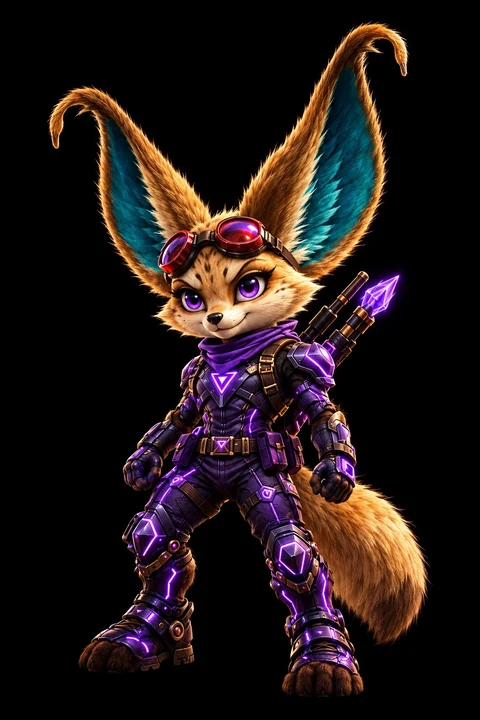
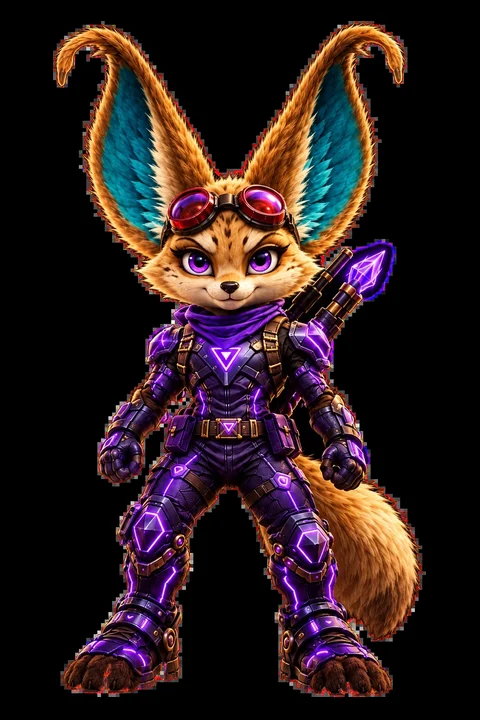
Rediseño visual AAA: nuevo orden de la galería (Bada y Dona con sus imágenes frontales), tipografía Teko y Chakra Petch, fondo con profundidad en la selección de héroes, menú de mundos con ambiente del color de cada mundo y pantalla de entrada a cada mundo con presentación de cine

diff --git a/src/style.css b/src/style.css
@@ -981,3 +981,197 @@ html.touch .hs-hint { display: none; }
   .hs-crown { font-size: 12px; top: 3px; right: 4px; }
   .hs-hint { display: none; }
 }
+
+/* ======================================================================
+   DIRECCIÓN DE ARTE AAA (selección de héroes · mundos · entrada a cada mundo)
+   Tipografía: Teko (títulos y nombres, condensada de videojuego) · Chakra Petch (etiquetas, botones,
+   datos técnicos) · Exo 2 (textos). Mismos colores de identidad del juego (--el héroe · --wc / --lc mundo).
+   ====================================================================== */
+:root { --f-display: 'Teko', 'Orbitron', sans-serif; --f-label: 'Chakra Petch', 'Exo 2', sans-serif; --f-body: 'Exo 2', 'Fredoka', sans-serif; }
+
+/* ---------- SELECCIÓN DE HÉROES ---------- */
+#select.hs { font-family: var(--f-body); }
+#select.hs::after { content: ''; position: absolute; inset: 0; pointer-events: none; z-index: 0; opacity: .5; mix-blend-mode: overlay;
+  background: repeating-linear-gradient(0deg, rgba(255,255,255,.035) 0 1px, transparent 1px 3px); }
+.hs-head { display: flex; flex-direction: column; gap: 2px; }
+.hs-kicker { font-family: var(--f-label); font-size: 11px; font-weight: 700; letter-spacing: 5px; color: color-mix(in srgb, var(--el) 70%, #fff); text-shadow: 0 0 12px color-mix(in srgb, var(--el) 60%, transparent); display: flex; align-items: center; gap: 10px; }
+.hs-kicker::before { content: ''; width: 18px; height: 2px; background: var(--el); box-shadow: 0 0 8px var(--el); }
+.sel-mission { font-family: var(--f-display); font-size: 22px; line-height: 1; font-weight: 500; letter-spacing: 1.5px; color: #ffd86a; text-transform: uppercase; margin-top: 4px; }
+.hs-count { font-family: var(--f-label); }
+
+/* tarjetas */
+.hs-plate b { font-family: var(--f-display); font-style: normal; font-weight: 600; font-size: 27px; line-height: .8; letter-spacing: 1.5px; padding-top: 4px; text-shadow: 0 2px 8px rgba(0,0,0,.8); }
+.hs-plate i { font-family: var(--f-label); font-size: 10px; font-weight: 600; letter-spacing: 1.5px; text-transform: uppercase; }
+.hs-card .hs-plate::before { content: ''; position: absolute; left: 10px; right: 10px; top: 14px; height: 1px; background: linear-gradient(90deg, var(--cel), transparent); opacity: .6; }
+.hs-card.sel .hs-plate::after { content: '◆ ELEGIDO'; position: absolute; right: 9px; bottom: 9px; font-family: var(--f-label); font-size: 9px; font-weight: 700; letter-spacing: 2px; color: #fff; text-shadow: 0 0 8px var(--cel); }
+/* esquinas de mira del elegido */
+.hs-card.sel .hs-shine { transform: none; background:
+  linear-gradient(var(--cel), var(--cel)) left 6px top 6px / 14px 2px no-repeat, linear-gradient(var(--cel), var(--cel)) left 6px top 6px / 2px 14px no-repeat,
+  linear-gradient(var(--cel), var(--cel)) right 6px top 6px / 14px 2px no-repeat, linear-gradient(var(--cel), var(--cel)) right 6px top 6px / 2px 14px no-repeat;
+  filter: drop-shadow(0 0 4px var(--cel)); }
+.hs-rec { font-family: var(--f-label); }
+
+/* ficha */
+.hs-tags span { font-family: var(--f-label); font-size: 11px; letter-spacing: 1.5px; padding: 4px 11px 3px; }
+.hs-name { position: relative; font-family: var(--f-display); font-style: normal; font-weight: 700; font-size: clamp(70px, 7vw, 116px); line-height: .78; letter-spacing: 2px; margin: 16px 0 0; padding-top: 6px; }
+.hs-name::before { content: attr(data-name); position: absolute; left: 0; top: 0; transform: translate(10px, -12px); z-index: -1; color: transparent; -webkit-text-stroke: 1px color-mix(in srgb, var(--el) 55%, transparent); opacity: .45; background: none; filter: none; }
+.hs-species { font-family: var(--f-label); font-weight: 600; font-size: 13px; letter-spacing: 6px; color: color-mix(in srgb, var(--el) 45%, #c5d3e6); display: flex; align-items: center; gap: 10px; margin-top: 10px; }
+.hs-species::after { content: ''; flex: 1; height: 1px; background: linear-gradient(90deg, color-mix(in srgb, var(--el) 60%, transparent), transparent); }
+.hs-bio { font-family: var(--f-body); font-size: 14px; line-height: 1.55; color: #c3d0e0; border-left: 0; padding-left: 0; margin-top: 14px; }
+.hs-sec { font-family: var(--f-label); font-size: 11px; font-weight: 700; letter-spacing: 4px; color: #e6eef8; margin-top: 18px; }
+.hs-sec::before { content: ''; width: 7px; height: 7px; background: var(--el); transform: rotate(45deg); box-shadow: 0 0 8px var(--el); }
+.hs-skill { border-left: 0; background: linear-gradient(90deg, rgba(255,255,255,.06), rgba(255,255,255,.015) 70%, transparent); clip-path: polygon(0 0, 100% 0, 100% 100%, 8px 100%, 0 calc(100% - 8px)); transition: background .2s; }
+.hs-skill:hover { background: linear-gradient(90deg, color-mix(in srgb, var(--el) 22%, transparent), transparent); }
+.hs-skill b { font-family: var(--f-label); font-weight: 600; font-size: 14px; letter-spacing: .3px; }
+.hs-skill i { font-family: var(--f-label); font-weight: 600; font-size: 9.5px; letter-spacing: 2.5px; }
+.hs-stats .stat { font-family: var(--f-label); font-weight: 600; font-size: 11px; letter-spacing: 2px; }
+.hs-stats .stat b { font-family: var(--f-display); font-size: 22px; font-weight: 600; line-height: .8; }
+.hs-btn { font-family: var(--f-display); font-weight: 600; font-size: 24px; line-height: 1; letter-spacing: 2.5px; padding: 13px 22px 9px; }
+.hs-btn.ghost { font-size: 20px; }
+.hs-hint { font-family: var(--f-label); font-weight: 600; font-size: 11px; letter-spacing: 3px; padding: 6px 16px; background: linear-gradient(90deg, transparent, rgba(0,0,0,.45), transparent); }
+@media (max-height: 560px) and (orientation: landscape) {
+  .hs-name { font-size: 52px; margin-top: 8px; }
+  .hs-plate b { font-size: 19px; }
+  .hs-btn { font-size: 18px; padding: 10px 12px 7px; } .hs-btn.ghost { font-size: 16px; }
+  .sel-mission { font-size: 16px; }
+}
+@media (orientation: portrait) and (max-width: 720px) {
+  .hs-name { font-size: 54px; margin-top: 8px; }
+  .hs-species { font-size: 11px; letter-spacing: 4px; margin-top: 4px; }
+  .hs-plate b { font-size: 17px; letter-spacing: .5px; }
+  .hs-card.sel .hs-plate::after { display: none; }
+  .hs-btn { font-size: 20px; } .hs-btn.ghost { font-size: 17px; }
+}
+.hs-card.sel:hover .hs-shine { transform: none; transition: none; }
+
+/* ---------- SELECCIÓN DE MUNDOS (misma escena 3D; cambia la presentación) ---------- */
+#missions.ws { font-family: var(--f-body); }
+/* ambiente: viñeta de cine, bandas superior e inferior y un baño de luz del color del mundo elegido */
+#missions.ws::before { content: ''; position: absolute; inset: 0; z-index: 1; pointer-events: none; transition: background .6s;
+  background:
+    radial-gradient(ellipse 55% 45% at 72% 52%, color-mix(in srgb, var(--wc, #6a8cff) 20%, transparent), transparent 70%),
+    radial-gradient(ellipse 90% 80% at 50% 50%, transparent 55%, rgba(0,0,6,.6) 100%),
+    linear-gradient(180deg, rgba(2,3,10,.78) 0%, transparent 18%, transparent 78%, rgba(2,3,10,.85) 100%); }
+#missions.ws:not(.has-sel)::before { background:
+    radial-gradient(ellipse 90% 80% at 50% 50%, transparent 55%, rgba(0,0,6,.6) 100%),
+    linear-gradient(180deg, rgba(2,3,10,.78) 0%, transparent 18%, transparent 78%, rgba(2,3,10,.85) 100%); }
+#missions.ws::after { content: ''; position: absolute; inset: 0; z-index: 1; pointer-events: none; opacity: .35; mix-blend-mode: overlay;
+  background: repeating-linear-gradient(0deg, rgba(255,255,255,.04) 0 1px, transparent 1px 3px); }
+.ws-kicker { font-family: var(--f-label); font-weight: 700; font-size: 12px; letter-spacing: 7px; color: #b9d2ff; display: inline-flex; align-items: center; gap: 14px; opacity: 1; }
+.ws-kicker::before, .ws-kicker::after { content: ''; width: 46px; height: 1px; background: linear-gradient(90deg, transparent, #9fc0ff); }
+.ws-kicker::after { transform: scaleX(-1); }
+.ws-title { font-family: var(--f-display); font-weight: 700; font-size: clamp(46px, 6.4vw, 96px); line-height: .85; letter-spacing: clamp(3px, .5vw, 8px); margin: 6px 0 2px; }
+.ws-progress { font-family: var(--f-label); font-weight: 600; font-size: 12px; letter-spacing: 2px; text-transform: uppercase; }
+.ws-label .wl-n { font-family: var(--f-label); font-size: 10px; letter-spacing: 3px; }
+.ws-label .wl-name { font-family: var(--f-display); font-weight: 600; font-size: 23px; line-height: 1; letter-spacing: 1.5px; text-transform: uppercase; padding: 5px 20px 2px; }
+.ws-label.center .wl-name { font-size: 28px; letter-spacing: 4px; }
+/* ficha del mundo */
+.ws-info { border-radius: 0; border: 0; padding: 22px 26px 22px 28px; background: linear-gradient(155deg, rgba(10,14,34,.92), rgba(4,6,16,.86));
+  clip-path: polygon(0 0, calc(100% - 22px) 0, 100% 22px, 100% 100%, 22px 100%, 0 calc(100% - 22px));
+  box-shadow: none; filter: drop-shadow(0 0 26px color-mix(in srgb, var(--wc, #8ab4ff) 35%, transparent)); }
+.ws-info::before { content: ''; position: absolute; left: 0; top: 22px; bottom: 44px; width: 3px; background: var(--wc, #8ab4ff); box-shadow: 0 0 12px var(--wc, #8ab4ff); }
+.ws-info::after { content: ''; position: absolute; inset: 0; pointer-events: none; padding: 1px; clip-path: inherit;
+  background: linear-gradient(155deg, color-mix(in srgb, var(--wc, #8ab4ff) 70%, transparent), transparent 35%, transparent 70%, color-mix(in srgb, var(--wc, #8ab4ff) 50%, transparent));
+  -webkit-mask: linear-gradient(#000 0 0) content-box, linear-gradient(#000 0 0); -webkit-mask-composite: xor; mask-composite: exclude; }
+.wi-prev { border-radius: 0; clip-path: polygon(0 0, calc(100% - 14px) 0, 100% 14px, 100% 100%, 0 100%); }
+.wi-cap { font-family: var(--f-label); font-weight: 600; border-radius: 0; letter-spacing: 2px; text-transform: uppercase; font-size: 10px; }
+.wi-kicker { font-family: var(--f-label); font-weight: 700; font-size: 11px; letter-spacing: 5px; display: flex; align-items: center; gap: 10px; }
+.wi-kicker::after { content: ''; flex: 1; height: 1px; background: linear-gradient(90deg, color-mix(in srgb, var(--wc, #8ab4ff) 70%, transparent), transparent); }
+.wi-name { font-family: var(--f-display); font-weight: 700; font-size: 54px; line-height: .82; letter-spacing: 1.5px; text-transform: uppercase; margin: 8px 0 4px;
+  background: linear-gradient(180deg, #fff 35%, color-mix(in srgb, var(--wc, #8ab4ff) 55%, #fff)); -webkit-background-clip: text; background-clip: text; color: transparent;
+  filter: drop-shadow(0 3px 14px color-mix(in srgb, var(--wc, #8ab4ff) 55%, transparent)); text-shadow: none; }
+.wi-place { font-family: var(--f-label); font-weight: 600; font-size: 12px; letter-spacing: .5px; color: color-mix(in srgb, var(--wc, #8ab4ff) 35%, #b9c8e2); margin-bottom: 12px; }
+.wi-desc { font-size: 14px; line-height: 1.55; color: #cdd8ec; }
+.wi-meta { gap: 6px; }
+.wi-meta span { font-family: var(--f-label); font-weight: 600; font-size: 11px; letter-spacing: .5px; padding: 4px 10px 3px; background: rgba(255,255,255,.07); clip-path: polygon(6px 0, 100% 0, calc(100% - 6px) 100%, 0 100%); }
+.wi-lock { font-family: var(--f-label); border-radius: 0; }
+.ws-btn { font-family: var(--f-display); font-weight: 600; font-size: 24px; line-height: 1; letter-spacing: 3px; padding: 14px 32px 10px; }
+.ws-btn.main { padding: 14px 44px 10px; }
+.ws-inv { font-family: var(--f-label); }
+.ws-hint { font-family: var(--f-label); font-weight: 600; letter-spacing: 2.5px; text-transform: uppercase; font-size: 11px; }
+.ws-arrow { font-family: var(--f-display); font-weight: 300; }
+.ws-top, .ws-labels, .ws-info, .ws-bottom, .ws-arrow, .ws-inv, .ws-hint { z-index: 3; }
+@media (max-width: 900px), (orientation: portrait) {
+  .wi-name { font-size: 38px; }
+  .ws-btn { font-size: 18px; padding: 12px 18px 8px; } .ws-btn.main { padding: 12px 24px 8px; }
+}
+@media (max-width: 520px) { .ws-btn { font-size: 16px; padding: 11px 14px 7px; letter-spacing: 1.5px; } .ws-btn.main { padding: 11px 18px 7px; } .ws-label .wl-name { font-size: 18px; } }
+@media (max-height: 520px) { .ws-title { font-size: 34px; } .wi-name { font-size: 34px; } }
+
+/* ---------- ENTRADA A CADA MUNDO (introducción de cine) ---------- */
+#levelintro.li2 { display: none; overflow: hidden; background: #020308; font-family: var(--f-body); --lc: #ffb347; }
+#levelintro.li2.show { display: block; }
+.li2 .li-bg { position: absolute; inset: 0; background: #020308 !important; overflow: hidden; }
+.li2 .li-shot { position: absolute; inset: -4%; width: 108%; height: 108%; object-fit: cover; opacity: 0; filter: saturate(1.1) brightness(.62) contrast(1.05); transition: opacity 1.2s ease; transform: scale(1.02); }
+.li2 .li-shot.on { opacity: 1; animation: liKen 7s ease-out forwards; }
+@keyframes liKen { from { transform: scale(1.02) translate3d(0, 0, 0); } to { transform: scale(1.14) translate3d(-2%, -1.5%, 0); } }
+/* gradación de color del mundo, viñeta y degradado para la lectura del texto */
+.li2 .li-bg::after { content: ''; position: absolute; inset: 0;
+  background:
+    linear-gradient(90deg, rgba(2,3,8,.94) 0%, rgba(2,3,8,.78) 30%, rgba(2,3,8,.2) 62%, rgba(2,3,8,.35) 100%),
+    radial-gradient(ellipse 60% 70% at 72% 50%, color-mix(in srgb, var(--lc) 30%, transparent), transparent 70%),
+    linear-gradient(180deg, color-mix(in srgb, var(--lc) 18%, transparent), transparent 40%, rgba(0,0,0,.5)); }
+/* franjas de cine */
+.li2::before, .li2::after { content: ''; position: absolute; left: 0; right: 0; height: 7vh; background: #000; z-index: 6; transition: transform .9s cubic-bezier(.2,.8,.2,1); }
+.li2::before { top: 0; transform: translateY(-100%); } .li2::after { bottom: 0; transform: translateY(100%); }
+.li2.play::before, .li2.play::after { transform: none; }
+/* rayos de luz y motas */
+.li-fx { position: absolute; inset: 0; z-index: 2; pointer-events: none; overflow: hidden; }
+.li-fx i { position: absolute; top: -20%; height: 140%; width: 18vw; background: linear-gradient(90deg, transparent, color-mix(in srgb, var(--lc) 22%, transparent), transparent); transform: rotate(18deg); filter: blur(8px); opacity: .55; animation: liRay 9s ease-in-out infinite alternate; }
+.li-fx i:nth-child(1) { left: 52%; } .li-fx i:nth-child(2) { left: 66%; width: 8vw; animation-delay: -3s; opacity: .4; } .li-fx i:nth-child(3) { left: 80%; width: 12vw; animation-delay: -6s; opacity: .35; }
+@keyframes liRay { from { transform: rotate(18deg) translateX(-3vw); } to { transform: rotate(22deg) translateX(3vw); } }
+/* la isla del mundo, flotando a la derecha */
+.li-art { position: absolute; z-index: 3; right: 6vw; top: 50%; width: min(46vw, 78vh); max-height: 78vh; object-fit: contain; transform: translateY(-50%);
+  filter: drop-shadow(0 30px 40px rgba(0,0,0,.7)) drop-shadow(0 0 60px color-mix(in srgb, var(--lc) 45%, transparent)); opacity: 0; }
+.li2.play .li-art { animation: liArtIn 1.2s cubic-bezier(.2,.8,.2,1) .25s forwards, liFloat 6s ease-in-out 1.45s infinite; }
+@keyframes liArtIn { from { opacity: 0; transform: translateY(-44%) scale(.92); } to { opacity: 1; transform: translateY(-50%) scale(1); } }
+@keyframes liFloat { 0%, 100% { opacity: 1; transform: translateY(-50%); } 50% { opacity: 1; transform: translateY(-52.5%); } }
+/* bloque de título */
+.li2 .li-box { position: absolute; z-index: 4; left: max(6vw, 32px); top: 50%; transform: translateY(-50%); width: min(560px, 46vw); text-align: left; padding: 0; margin: 0; max-width: none; }
+.li-top { display: flex; align-items: center; gap: 12px; }
+.li2 .li-icon { font-size: 22px; margin: 0; animation: none; width: 40px; height: 40px; display: flex; align-items: center; justify-content: center; background: color-mix(in srgb, var(--lc) 25%, rgba(0,0,0,.4)); clip-path: polygon(50% 0, 100% 50%, 50% 100%, 0 50%); filter: none; }
+.li2 .li-kicker { font-family: var(--f-label); font-weight: 700; font-size: 14px; letter-spacing: 8px; color: color-mix(in srgb, var(--lc) 55%, #fff); text-shadow: 0 0 14px color-mix(in srgb, var(--lc) 70%, transparent); }
+.li2 h1 { position: relative; margin: 14px 0 0; font-family: var(--f-display); font-weight: 700; font-size: clamp(64px, 9vw, 150px); line-height: .78; letter-spacing: 2px; text-transform: uppercase;
+  background: linear-gradient(180deg, #fff 30%, color-mix(in srgb, var(--lc) 60%, #fff)); -webkit-background-clip: text; background-clip: text; color: transparent;
+  filter: drop-shadow(0 6px 26px color-mix(in srgb, var(--lc) 55%, transparent)); text-shadow: none; padding-top: 8px; }
+.li2 h1::before { content: attr(data-name); position: absolute; left: 0; top: 0; z-index: -1; transform: translate(14px, -16px); color: transparent; -webkit-text-stroke: 1px color-mix(in srgb, var(--lc) 60%, transparent); opacity: .35; background: none; }
+.li2 .li-place { font-family: var(--f-label); font-weight: 600; font-size: 15px; letter-spacing: .5px; color: #d9e2ef; margin: 14px 0 0; }
+.li-rule { margin: 18px 0 16px; height: 2px; width: 120px; background: linear-gradient(90deg, var(--lc), transparent); box-shadow: 0 0 12px var(--lc); }
+.li2 .li-desc { font-size: 16px; line-height: 1.6; color: #c9d4e4; margin: 0 0 18px; max-width: 520px; }
+.li-chips { display: flex; flex-direction: column; gap: 8px; }
+.li2 .li-mech, .li2 .li-diff { font-family: var(--f-label); font-weight: 600; font-size: 13px; color: #e8eef7; margin: 0; display: flex; flex-wrap: wrap; align-items: center; gap: 10px; }
+.li2 .li-mech b, .li2 .li-diff b { font-size: 10px; letter-spacing: 3px; color: #0a0a10; background: var(--lc); padding: 3px 8px 2px; clip-path: polygon(5px 0, 100% 0, calc(100% - 5px) 100%, 0 100%); }
+.li2 .li-diff b:nth-of-type(2) { margin-left: 10px; }
+.li-pips { display: inline-flex; gap: 4px; }
+.li-pips i { width: 16px; height: 6px; background: rgba(255,255,255,.18); transform: skewX(-20deg); }
+.li-pips i.on { background: var(--lc); box-shadow: 0 0 8px var(--lc); }
+/* entrada escalonada */
+.li2.play .li-top, .li2.play h1, .li2.play .li-place, .li2.play .li-rule, .li2.play .li-desc, .li2.play .li-chips { animation: liIn .8s cubic-bezier(.2,.8,.2,1) both; }
+.li2.play h1 { animation-delay: .12s; } .li2.play .li-place { animation-delay: .24s; } .li2.play .li-rule { animation-delay: .32s; } .li2.play .li-desc { animation-delay: .4s; } .li2.play .li-chips { animation-delay: .5s; }
+@keyframes liIn { from { opacity: 0; transform: translateX(-30px); } to { opacity: 1; transform: none; } }
+/* carga */
+.li-load { position: absolute; z-index: 7; left: max(6vw, 32px); right: max(6vw, 32px); bottom: calc(7vh + 18px); display: flex; align-items: center; gap: 18px; }
+.li2 .li-msg { font-family: var(--f-label); font-weight: 600; font-size: 11px; letter-spacing: 3px; text-transform: uppercase; color: #9fb0c8; margin: 0; white-space: nowrap; }
+.li2 .li-bar { flex: 1; height: 2px; background: rgba(255,255,255,.12); border-radius: 0; overflow: visible; }
+.li2 .li-bar i { height: 100%; background: linear-gradient(90deg, color-mix(in srgb, var(--lc) 60%, transparent), var(--lc)); box-shadow: 0 0 10px var(--lc); position: relative; }
+.li2 .li-bar i::after { content: ''; position: absolute; right: -3px; top: -3px; width: 8px; height: 8px; background: #fff; transform: rotate(45deg); box-shadow: 0 0 10px var(--lc); }
+@media (orientation: portrait) and (max-width: 720px) {
+  .li2::before, .li2::after { height: 5vh; }
+  .li-art { right: 50%; top: 9vh; width: 78vw; max-height: 36vh; transform: translateX(50%); }
+  @keyframes liArtIn { from { opacity: 0; transform: translateX(50%) translateY(14px) scale(.92); } to { opacity: 1; transform: translateX(50%); } }
+  @keyframes liFloat { 0%, 100% { opacity: 1; transform: translateX(50%); } 50% { opacity: 1; transform: translateX(50%) translateY(-8px); } }
+  .li2 .li-bg::after { background: linear-gradient(180deg, rgba(2,3,8,.3) 0%, rgba(2,3,8,.55) 40%, rgba(2,3,8,.95) 62%), radial-gradient(ellipse 80% 40% at 50% 25%, color-mix(in srgb, var(--lc) 30%, transparent), transparent 70%); }
+  .li2 .li-box { left: 20px; right: 20px; width: auto; top: auto; bottom: calc(5vh + 52px); transform: none; }
+  .li2 h1 { font-size: 64px; }
+  .li2 .li-desc { font-size: 13.5px; line-height: 1.5; margin-bottom: 12px; display: -webkit-box; -webkit-line-clamp: 4; -webkit-box-orient: vertical; overflow: hidden; }
+  .li-rule { margin: 12px 0 10px; }
+  .li-load { left: 20px; right: 20px; bottom: calc(5vh + 14px); }
+  .li-fx { display: none; }
+}
+@media (max-height: 520px) and (orientation: landscape) {
+  .li2 h1 { font-size: 60px; } .li2 .li-desc { font-size: 13px; margin-bottom: 8px; display: -webkit-box; -webkit-line-clamp: 3; -webkit-box-orient: vertical; overflow: hidden; }
+  .li-rule { margin: 8px 0; } .li2 .li-place { margin-top: 6px; font-size: 12px; }
+  .li2 .li-box { top: 46%; }
+}
+@media (orientation: portrait) and (max-width: 720px) { .ws-title { font-size: 40px; letter-spacing: 2px; white-space: nowrap; } .ws-kicker::before, .ws-kicker::after { width: 24px; } }
+@media (orientation: portrait) and (max-width: 720px) { .hs-head { display: none; } }

diff --git a/src/ui.js b/src/ui.js
@@ -12,9 +12,9 @@ import { hpTier } from './health.js';
 const $ = (id) => document.getElementById(id);
 export const HERO_ICON = { jago: '🐆', kairo: '🦎', lira: '🐈', halley: '🦊', nilo: '🦦', kyra: '❄', ambar: '🦅', voya: '🦁' };
 const fmtH = (id) => `${HERO_SCALE[id].height.toFixed(2).replace('.', ',')} m`;
-export const HERO_ART = (id) => `/img/select/${id}.webp?v=s2`;
+export const HERO_ART = (id) => `/img/select/${id}.webp?v=s3`;
 // orden de la galería de selección (de izquierda a derecha y de arriba abajo)
-export const SELECT_ORDER = ['jago', 'lira', 'ambar', 'halley', 'kyra', 'kairo', 'nilo', 'voya'];
+export const SELECT_ORDER = ['jago', 'kairo', 'ambar', 'halley', 'kyra', 'lira', 'nilo', 'voya'];
 export const selectOrder = () => [...SELECT_ORDER.map((id) => HEROES.findIndex((h) => h.id === id)).filter((i) => i >= 0), ...HEROES.map((h, i) => i).filter((i) => !SELECT_ORDER.includes(HEROES[i].id))]; // ilustración de cuerpo entero para la galería de selección
 export const HERO_FACE = (id) => `/img/heroes/${id}.jpg?v=h30`; // ?v: los retratos nuevos sustituyen a los guardados en caché
 
@@ -201,6 +201,7 @@ export const ui = {
 
   showScreen(name) {
     for (const s of SCREENS) $(s).classList.toggle('show', s === name);
+    if (name !== 'levelintro' && this._liTimer) { clearInterval(this._liTimer); this._liTimer = null; }
   },
   showOverlay(name, on) {
     $(name).classList.toggle('show', on);
@@ -246,6 +247,7 @@ export const ui = {
     this.setElementColor(el.css);
     [...$('hero-cards').children].forEach((c) => c.classList.toggle('sel', Number(c.dataset.idx) === i));
     $('sel-name').textContent = h.name;
+    $('sel-name').dataset.name = h.name;
     $('sel-species').textContent = h.species;
     $('sel-element').textContent = `${el.icon} ${el.name}`;
     $('hs-class').textContent = (HERO_SCALE[h.id] && HERO_SCALE[h.id].tipo) || 'Héroe';
@@ -919,19 +921,39 @@ export const ui = {
     this.showOverlay('inventory', true);
   },
   showLevelIntro(level) {
-    $('li-kicker').textContent = level.kicker;
+    const [num, ...rest] = String(level.kicker || '').split(' · ');
+    $('li-kicker').textContent = rest.length ? num : level.kicker;
     $('li-icon').textContent = level.icon;
     $('li-name').textContent = level.name;
+    $('li-name').dataset.name = level.name;
     $('li-place').textContent = level.place;
     $('li-desc').textContent = level.desc;
-    $('li-mech').textContent = `⚠ ${level.mechanic}`;
-    const rw = ITEMS[level.reward];
-    $('li-diff').innerHTML = `Dificultad ${'🔥'.repeat(Math.ceil((level.d ?? level.n) / 2))} · Premio del nivel: ${rw ? rw.icon + ' ' + rw.name : ''}`;
+    $('li-mech').innerHTML = `<b>PELIGRO</b>${level.mechanic}`;
+    const rw = ITEMS[level.reward], lvl = Math.ceil((level.d ?? level.n) / 2);
+    $('li-diff').innerHTML = `<b>DIFICULTAD</b><span class="li-pips">${[1, 2, 3, 4, 5].map((k) => `<i class="${k <= lvl ? 'on' : ''}"></i>`).join('')}</span>${rw ? `<b>PREMIO</b>${rw.icon} ${rw.name}` : ''}`;
     $('li-progress').style.width = '4%';
     $('li-msg').textContent = 'Cargando el escenario 3D…';
-    $('li-bg').className = 'li-bg ' + level.scenario;
-    // fondo con el color oficial del mundo
-    $('li-bg').style.background = level.color ? `radial-gradient(circle at 50% 30%, color-mix(in srgb, ${level.color} 62%, #000), #06060c)` : '';
+    const scr = $('levelintro');
+    // color oficial del mundo; si es casi negro (Apocalia), el acento se aclara mezclándolo con blanco para que se lea
+    const lc = new THREE.Color(level.color || '#ffb347'), lum = 0.2126 * lc.r + 0.7152 * lc.g + 0.0722 * lc.b;
+    if (lum < 0.12) lc.lerp(new THREE.Color(0xffffff), 0.55);
+    scr.style.setProperty('--lc', '#' + lc.getHexString());
+    // fondo: las capturas reales del mundo (img/worlds/<id>_1..3) se suceden con un movimiento lento de cámara
+    const bg = $('li-bg');
+    bg.className = 'li-bg ' + level.scenario;
+    const shots = [...bg.querySelectorAll('.li-shot')];
+    let k = 0;
+    const show = () => { const a = shots[k % 2], b = shots[(k + 1) % 2]; a.src = `/img/worlds/${level.id}_${(k % 3) + 1}.jpg`; a.classList.remove('on'); void a.offsetWidth; a.classList.add('on'); b.classList.remove('on'); k++; };
+    clearInterval(this._liTimer);
+    shots.forEach((im) => { im.classList.remove('on'); im.onerror = () => { im.style.visibility = 'hidden'; }; im.style.visibility = ''; });
+    show();
+    this._liTimer = setInterval(show, 3600);
+    // su isla en 3D, flotando
+    const art = $('li-art');
+    art.style.visibility = '';
+    art.onerror = () => { art.style.visibility = 'hidden'; };
+    art.src = `/img/islands/${level.id}.webp`;
+    scr.classList.remove('play'); void scr.offsetWidth; scr.classList.add('play');
     this.showScreen('levelintro');
   },
   levelIntroProgress(p, msg) {

diff --git a/src/herostage.js b/src/herostage.js
@@ -126,6 +126,50 @@ export class HeroStage {
     this.grid.rotation.x = -Math.PI / 2; this.grid.position.y = 0.004; this.grid.renderOrder = 2;
     S.add(this.grid);
 
+    // FONDO CON PROFUNDIDAD (discreto, para que el héroe destaque):
+    //  · semicírculo de columnas metálicas con una línea de luz del color del héroe, que se pierden en la niebla;
+    //  · gran halo doble detrás del héroe; · rayos de luz que caen desde arriba; · charco de luz suave en el suelo.
+    this.bgMat = new THREE.MeshBasicMaterial({ color: 0xffffff, toneMapped: false, transparent: true, opacity: 0.55 });
+    const pillarMat = new THREE.MeshStandardMaterial({ color: 0x0d1119, metalness: 0.8, roughness: 0.45 });
+    const pillarG = new THREE.BoxGeometry(0.5, 9, 0.5), stripG = new THREE.BoxGeometry(0.05, 7.4, 0.05), capG = new THREE.BoxGeometry(0.9, 0.12, 0.9);
+    for (let i = 0; i < 13; i++) {
+      const a = -Math.PI / 2 + (i - 6) * 0.2, r = 10.5 + (i % 2) * 1.6;
+      const g = new THREE.Group();
+      g.position.set(Math.cos(a) * r, 0, Math.sin(a) * r);
+      g.rotation.y = -a - Math.PI / 2;
+      const p = new THREE.Mesh(pillarG, pillarMat); p.position.y = 4.5;
+      const st = new THREE.Mesh(stripG, this.bgMat); st.position.set(0, 4.2, 0.27);
+      const cap = new THREE.Mesh(capG, pillarMat); cap.position.y = 0.06;
+      g.add(p, st, cap);
+      S.add(g);
+    }
+    this.halo = new THREE.Group();
+    const haloMat = new THREE.MeshBasicMaterial({ color: 0xffffff, toneMapped: false, transparent: true, opacity: 0.22, blending: THREE.AdditiveBlending, depthWrite: false });
+    const h1 = new THREE.Mesh(new THREE.TorusGeometry(3.3, 0.012, 6, 160), haloMat);
+    const h2 = new THREE.Mesh(new THREE.RingGeometry(2.9, 2.96, 160, 1, 0, Math.PI * 1.4), haloMat);
+    const h3 = new THREE.Mesh(new THREE.RingGeometry(3.6, 3.64, 160, 1, Math.PI * 1.1, Math.PI * 0.6), haloMat);
+    this.halo.add(h1, h2, h3); this.halo.position.set(0, 2.1, -4.2); this.haloMat = haloMat; this.haloArcs = [h2, h3];
+    S.add(this.halo);
+    this.rays = [];
+    const rayMat = new THREE.ShaderMaterial({
+      uniforms: { uC: { value: new THREE.Color() }, uK: { value: 0.08 } }, transparent: true, depthWrite: false, blending: THREE.AdditiveBlending, side: THREE.DoubleSide, toneMapped: false,
+      vertexShader: 'varying vec2 vUv; void main(){ vUv = uv; gl_Position = projectionMatrix * modelViewMatrix * vec4(position, 1.0); }',
+      fragmentShader: 'uniform vec3 uC; uniform float uK; varying vec2 vUv; void main(){ float a = smoothstep(0.0, 0.5, vUv.x) * smoothstep(1.0, 0.5, vUv.x) * smoothstep(0.0, 0.7, vUv.y) * uK; gl_FragColor = vec4(mix(uC, vec3(1.0), 0.4) * a, a); }',
+    });
+    this.rayMat = rayMat;
+    for (const [x, z, rz, w] of [[-3.2, -6, 0.32, 1.6], [3.6, -6.5, -0.28, 2.2], [0.6, -7.5, 0.06, 1.2]]) {
+      const m = new THREE.Mesh(new THREE.PlaneGeometry(w, 14), rayMat);
+      m.position.set(x, 6, z); m.rotation.z = rz; m.renderOrder = 1;
+      S.add(m); this.rays.push(m);
+    }
+    this.pool = new THREE.Mesh(new THREE.CircleGeometry(6, 48), new THREE.ShaderMaterial({
+      uniforms: { uC: { value: new THREE.Color() } }, transparent: true, depthWrite: false, blending: THREE.AdditiveBlending, toneMapped: false,
+      vertexShader: 'varying vec2 vP; void main(){ vP = position.xy; gl_Position = projectionMatrix * modelViewMatrix * vec4(position, 1.0); }',
+      fragmentShader: 'uniform vec3 uC; varying vec2 vP; void main(){ float a = pow(max(0.0, 1.0 - length(vP) / 6.0), 2.2) * 0.22; gl_FragColor = vec4(uC * a, a); }',
+    }));
+    this.pool.rotation.x = -Math.PI / 2; this.pool.position.y = 0.003; this.pool.renderOrder = 1;
+    S.add(this.pool);
+
     // PLATAFORMA
     const plat = (this.plat = new THREE.Group());
     S.add(plat);
@@ -390,6 +434,11 @@ export class HeroStage {
     this.rimR.color.copy(c).lerp(WHITE, 0.8);
     this.under.color.copy(c).lerp(WHITE, 0.4);
     this.orbit.rotation.y = t * 0.12;
+    this.bgMat.color.copy(c).multiplyScalar(0.9);
+    this.haloMat.color.copy(c);
+    this.halo.rotation.z = t * 0.03; this.haloArcs[0].rotation.z = -t * 0.08; this.haloArcs[1].rotation.z = t * 0.05;
+    this.rayMat.uniforms.uC.value.copy(c); this.rayMat.uniforms.uK.value = 0.07 + 0.02 * Math.sin(t * 0.5);
+    this.pool.material.uniforms.uC.value.copy(c);
     // pulso al cambiar de héroe
     if (this.pulseK > 0) {
       this.pulseK = Math.max(0, this.pulseK - dt * 1.6);

diff --git a/index.html b/index.html
@@ -8,7 +8,7 @@
   <meta name="theme-color" content="#0b1018" />
   <title>CATAC 7</title>
   <link rel="preconnect" href="https://fonts.googleapis.com" />
-  <link href="https://fonts.googleapis.com/css2?family=Fredoka:wght@400;500;600;700&family=Orbitron:wght@500;700;900&family=Exo+2:wght@400;500;600;700&display=swap" rel="stylesheet" />
+  <link href="https://fonts.googleapis.com/css2?family=Fredoka:wght@400;500;600;700&family=Orbitron:wght@500;700;900&family=Exo+2:wght@400;500;600;700&family=Teko:wght@400;500;600;700&family=Chakra+Petch:wght@500;600;700&display=swap" rel="stylesheet" />
   <link rel="stylesheet" href="/src/style.css" />
 </head>
 <body>
@@ -305,20 +305,20 @@
       </div>
     </section>
 
-    <!-- Introducción cinematográfica de nivel -->
-    <section id="levelintro" class="screen">
-      <div class="li-bg" id="li-bg"></div>
+    <!-- Introducción cinematográfica de cada mundo: capturas del mundo (movimiento lento), su isla 3D y el título -->
+    <section id="levelintro" class="screen li2">
+      <div class="li-bg" id="li-bg"><img class="li-shot" alt="" /><img class="li-shot" alt="" /></div>
+      <div class="li-fx"><i></i><i></i><i></i></div>
+      <img id="li-art" class="li-art" alt="" />
       <div class="li-box">
-        <div id="li-kicker" class="li-kicker">NIVEL 2</div>
-        <div id="li-icon" class="li-icon">🔥</div>
+        <div class="li-top"><span id="li-icon" class="li-icon">🔥</span><span id="li-kicker" class="li-kicker">MUNDO 2</span></div>
         <h1 id="li-name">Volcano Fury</h1>
         <div id="li-place" class="li-place"></div>
+        <div class="li-rule"></div>
         <p id="li-desc" class="li-desc"></p>
-        <div id="li-mech" class="li-mech"></div>
-        <div id="li-diff" class="li-diff"></div>
-        <div class="li-bar"><i id="li-progress"></i></div>
-        <div id="li-msg" class="li-msg">Cargando el escenario 3D…</div>
+        <div class="li-chips"><div id="li-mech" class="li-mech"></div><div id="li-diff" class="li-diff"></div></div>
       </div>
+      <div class="li-load"><div id="li-msg" class="li-msg">Cargando el escenario 3D…</div><div class="li-bar"><i id="li-progress"></i></div></div>
     </section>
   </div>
   <script type="module" src="/src/main.js"></script>

diff --git a/src/worldselect.js b/src/worldselect.js
@@ -359,12 +359,13 @@ export class WorldSelect {
     const st = this.stars(L.id);
     const rw = this.rewardOf(L);
     info.style.setProperty('--wc', '#' + p.col.getHexString());
+    this.root.style.setProperty('--wc', '#' + p.col.getHexString()); // ambiente de la pantalla con el color del mundo
     // VISTA PREVIA DEL MAPA: tres capturas reales del escenario 3D (public/img/worlds/<id>_1..3.jpg)
     const PV = [['Escenario en 3D', 0], ['Vista aérea', 1], ['Vista lateral', 2], ['Desde el portal de rescate', 3]];
     const srcOf = (k) => (k ? `/img/worlds/${L.id}_${k}.jpg` : `/img/islands/${L.id}.webp`);
     const gallery = `<div class="wi-prev${p.locked ? ' locked' : ''}"><img class="wi-main is3d" alt="Vista previa de ${L.name}" src="${srcOf(0)}"><div class="wi-cap">${PV[0][0]}</div>
       <div class="wi-thumbs">${PV.map(([t, k], j) => `<button type="button" class="wi-th${j ? '' : ' on'}${k ? '' : ' th3d'}" data-k="${j}" title="${t}"><img alt="${t}" src="${srcOf(k)}"></button>`).join('')}</div></div>`;
-    info.innerHTML = gallery + `<div class="wi-kicker">${L.kicker}</div><div class="wi-name">${L.icon} ${L.name}</div><div class="wi-place">${L.place}</div>
+    info.innerHTML = gallery + `<div class="wi-kicker">${L.icon} ${String(L.kicker).split(' · ')[0]}</div><div class="wi-name">${L.name}</div><div class="wi-place">${L.place}</div>
       <p class="wi-desc">${L.desc}</p>
       <div class="wi-meta"><span>Dificultad ${'🔥'.repeat(Math.ceil((L.d ?? L.n) / 2))}</span><span>${[0, 1, 2].map((k) => (k < st ? '⭐' : '☆')).join('')}</span>${rw ? `<span>Premio: ${rw.icon} ${rw.name}</span>` : ''}<span>Ideal: ${this.bestOf(L)}</span></div>
       ${p.locked ? `<div class="wi-lock">🔒 Completa el mundo anterior para abrir este</div>` : ''}`;
